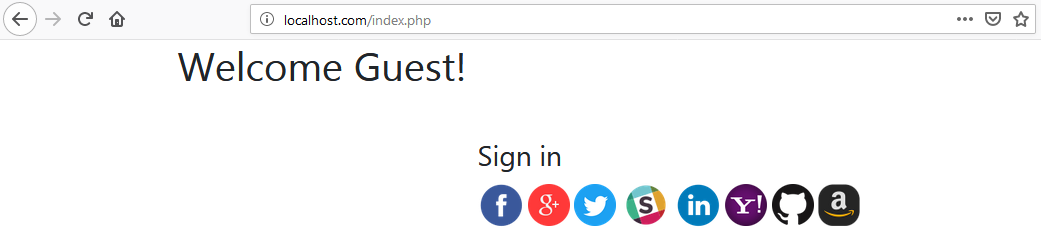
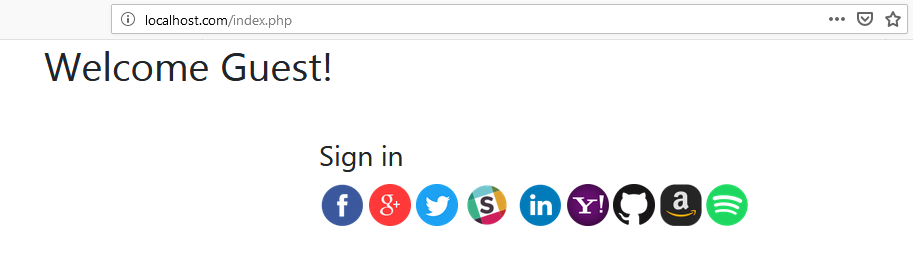
added Spotify support (#5)

diff --git a/src/ThirdParty/Spotify/SpotifyConnection.php b/src/ThirdParty/Spotify/SpotifyConnection.php
@@ -1,0 +1,142 @@
+<?php
+/**
+ * @author Tharanga Kothalawala <tharanga.kothalawala@tsk-webdevelopment.com>
+ * @date 25-02-2019
+ */
+
+namespace TSK\SSO\ThirdParty\Spotify;
+
+use TSK\SSO\Http\CurlRequest;
+use TSK\SSO\ThirdParty;
+use TSK\SSO\ThirdParty\CommonAccessToken;
+use TSK\SSO\ThirdParty\Exception\NoThirdPartyEmailFoundException;
+use TSK\SSO\ThirdParty\Exception\ThirdPartyConnectionFailedException;
+use TSK\SSO\ThirdParty\ThirdPartyUser;
+use TSK\SSO\ThirdParty\VendorConnection;
+
+/**
+ * @codeCoverageIgnore
+ * @package TSK\SSO\ThirdParty\Spotify
+ * @see https://developer.spotify.com/documentation/general/guides/authorization-guide/
+ */
+class SpotifyConnection implements VendorConnection
+{
+    const API_BASE = 'https://accounts.spotify.com';
+
+    /**
+     * @var SpotifyApiConfiguration
+     */
+    private $apiConfiguration;
+
+    /**
+     * @var CurlRequest
+     */
+    private $curlClient;
+
+    /**
+     * SpotifyConnection constructor.
+     * @param SpotifyApiConfiguration $apiConfiguration
+     * @param CurlRequest $curlClient
+     */
+    public function __construct(SpotifyApiConfiguration $apiConfiguration, CurlRequest $curlClient)
+    {
+        $this->apiConfiguration = $apiConfiguration;
+        $this->curlClient = $curlClient;
+    }
+
+    /**
+     * Use this to get a link to redirect a user to the third party login
+     *
+     * @return string|null
+     */
+    public function getGrantUrl()
+    {
+        return sprintf(
+            '%s/authorize?client_id=%s&scope=%s&response_type=code&redirect_uri=%s&state=%s',
+            self::API_BASE,
+            $this->apiConfiguration->clientId(),
+            urlencode('user-read-email'),
+            urlencode($this->apiConfiguration->redirectUrl()),
+            $this->apiConfiguration->ourSecretState()
+        );
+    }
+
+    /**
+     * Grants a new access token
+     *
+     * @return CommonAccessToken
+     * @throws ThirdPartyConnectionFailedException
+     */
+    public function grantNewAccessToken()
+    {
+        if (empty($_GET['code'])
+            || empty($_GET['state'])
+            || $_GET['state'] !== $this->apiConfiguration->ourSecretState()
+        ) {
+            throw new ThirdPartyConnectionFailedException('Invalid request!');
+        }
+
+        $accessTokenJsonResponse = $this->curlClient->postUrlEncoded(
+            sprintf("%s/api/token", self::API_BASE),
+            sprintf(
+                'client_id=%s&client_secret=%s&grant_type=authorization_code&redirect_uri=%s&code=%s',
+                $this->apiConfiguration->clientId(),
+                $this->apiConfiguration->clientSecret(),
+                urlencode($this->apiConfiguration->redirectUrl()),
+                $_GET['code']
+            )
+        );
+
+        $accessTokenData = json_decode($accessTokenJsonResponse, true);
+        if (empty($accessTokenData['access_token'])) {
+            throw new ThirdPartyConnectionFailedException('Failed to establish a new third party vendor connection.');
+        }
+
+        return new CommonAccessToken(
+            $accessTokenData['access_token'],
+            ThirdParty::SPOTIFY
+        );
+    }
+
+    /**
+     * Use this to retrieve the current user's third party user data using there existing granted access token
+     *
+     * @param CommonAccessToken $accessToken
+     * @return ThirdPartyUser
+     * @throws NoThirdPartyEmailFoundException
+     * @throws ThirdPartyConnectionFailedException
+     */
+    public function getSelf(CommonAccessToken $accessToken)
+    {
+        $userJsonInfo = $this->curlClient->get(
+            'https://api.spotify.com/v1/me',
+            array(
+                sprintf('Authorization: Bearer %s', $accessToken->token()),
+            )
+        );
+
+        $userInfo = json_decode($userJsonInfo, true);
+        if (empty($userInfo['email'])) {
+            throw new NoThirdPartyEmailFoundException('An email address cannot be found from vendor');
+        }
+
+        return new ThirdPartyUser(
+            $userInfo['id'],
+            $userInfo['display_name'],
+            $userInfo['email']
+        );
+    }
+
+    /**
+     * Use this to revoke the access to the third party data.
+     * This will completely remove the access from the vendor side.
+     *
+     * @param CommonAccessToken $accessToken
+     * @return bool
+     */
+    public function revokeAccess(CommonAccessToken $accessToken)
+    {
+        // noop : cannot find documentation on how to revoke the app's access.
+        return true;
+    }
+}

diff --git a/examples/index.php b/examples/index.php
@@ -71,6 +71,7 @@ if (!empty($_SESSION['userId'])) {
                         ThirdParty::YAHOO => array('profile' => 'https://yahoo.com/%s', 'accounts' => array()),
                         ThirdParty::GITHUB => array('profile' => 'https://github.com/%s', 'accounts' => array()),
                         ThirdParty::AMAZON => array('profile' => 'https://amazon.com/%s', 'accounts' => array()),
+                        ThirdParty::SPOTIFY => array('profile' => 'https://open.spotify.com/user/%s', 'accounts' => array()),
                     );
                     $vendorAccounts = $storageRepository->getByAppUser(
                         new ExistingAppUser($loggedInUser['id'], $loggedInUser['email'])
@@ -115,7 +116,7 @@ HTML
                 ?>
                 </ul>
             <?php }?>
-            <div style="width: 40%; margin: 50px auto 0;">
+            <div style="width: 45%; margin: 50px auto 0;">
                 <?php if (!empty($loggedInUser)) { ?>
                     <h3><a href="/sso.php?task=logout" title="Sign in with FaceBook">Logout</a></h3>
                 <?php } else { ?>
@@ -129,6 +130,7 @@ HTML
                     <a href="/sso.php?vendor=yahoo&task=signin" title="Sign in with Yahoo"><img src="/images/yahoo.png" width="42"></a>
                     <a href="/sso.php?vendor=github&task=signin" title="Sign in with GitHub"><img src="/images/github.png" width="42"></a>
                     <a href="/sso.php?vendor=amazon&task=signin" title="Sign in with Amazon"><img src="/images/amazon.png" width="42"></a>
+                    <a href="/sso.php?vendor=spotify&task=signin" title="Sign in with Spotify"><img src="/images/spotify.png" width="42"></a>
                 <?php }?>
             </div>
 

diff --git a/src/ThirdParty/Spotify/SpotifyApiConfiguration.php b/src/ThirdParty/Spotify/SpotifyApiConfiguration.php
@@ -1,0 +1,75 @@
+<?php
+/**
+ * @author Tharanga Kothalawala <tharanga.kothalawala@tsk-webdevelopment.com>
+ * @date 25-02-2019
+ */
+
+namespace TSK\SSO\ThirdParty\Spotify;
+
+/**
+ * @package TSK\SSO\ThirdParty\Spotify
+ */
+class SpotifyApiConfiguration
+{
+    /**
+     * @var string
+     */
+    private $clientId;
+
+    /**
+     * @var string
+     */
+    private $clientSecret;
+
+    /**
+     * @var string
+     */
+    private $redirectUrl;
+
+    /**
+     * SpotifyApiConfiguration constructor.
+     * @param string $clientId
+     * @param string $clientSecret
+     * @param string $redirectUrl
+     */
+    public function __construct($clientId, $clientSecret, $redirectUrl)
+    {
+        $this->clientId = $clientId;
+        $this->clientSecret = $clientSecret;
+        $this->redirectUrl = $redirectUrl;
+    }
+
+    /**
+     * @return string
+     */
+    public function clientId()
+    {
+        return $this->clientId;
+    }
+
+    /**
+     * @return string
+     */
+    public function clientSecret()
+    {
+        return $this->clientSecret;
+    }
+
+    /**
+     * @return string
+     */
+    public function redirectUrl()
+    {
+        return $this->redirectUrl;
+    }
+
+    /**
+     * This is just to identify that, we initiated the login sequence (not someone else)
+     *
+     * @return string
+     */
+    public function ourSecretState()
+    {
+        return 'dfeb6ef625880832f61c6f4bd737e11b';
+    }
+}

diff --git a/src/ThirdParty/Spotify/SpotifyConnectionFactory.php b/src/ThirdParty/Spotify/SpotifyConnectionFactory.php
@@ -1,0 +1,38 @@
+<?php
+/**
+ * @author Tharanga Kothalawala <tharanga.kothalawala@tsk-webdevelopment.com>
+ * @date 25-02-2019
+ */
+
+namespace TSK\SSO\ThirdParty\Spotify;
+
+use TSK\SSO\Http\CurlRequest;
+use TSK\SSO\ThirdParty\VendorConnection;
+use TSK\SSO\ThirdParty\VendorConnectionFactory;
+
+/**
+ * @package TSK\SSO\ThirdParty\Spotify
+ */
+class SpotifyConnectionFactory implements VendorConnectionFactory
+{
+    /**
+     * Returns a Spotify Connection instance using given credentials. Visit the following link for credentials.
+     * @see https://developer.spotify.com/dashboard/applications
+     *
+     * @param string $clientId the client id which can be generated at the third party portal
+     * @param string $clientSecret this can be found similar to the clientId
+     * @param string $callbackUrl the url to callback after a third party auth attempt
+     * @return VendorConnection
+     */
+    public function get($clientId, $clientSecret, $callbackUrl)
+    {
+        return new SpotifyConnection(
+            new SpotifyApiConfiguration(
+                $clientId,
+                $clientSecret,
+                $callbackUrl
+            ),
+            new CurlRequest()
+        );
+    }
+}

diff --git a/examples/sso.php b/examples/sso.php
@@ -25,6 +25,7 @@ use TSK\SSO\ThirdParty\Exception\UnknownVendorRequestException;
 use TSK\SSO\ThirdParty\GitHub\GitHubConnectionFactory;
 use TSK\SSO\ThirdParty\Google\GoogleConnectionFactory;
 use TSK\SSO\ThirdParty\Twitter\TwitterConnectionFactory;
+use TSK\SSO\ThirdParty\Spotify\SpotifyConnectionFactory;
 use TSK\SSO\ThirdParty\VendorConnectionRevoker;
 use TSK\SSO\ThirdParty\Yahoo\YahooConnectionFactory;
 
@@ -87,6 +88,15 @@ $connectionFactoryCollection->add(
         'amzn1.application-oa2-client.32d417021c994d9983136748ab40508f', // demo real-app api key
[1 lines of base64/hex data omitted]
         sprintf(CALLBACK_URL, ThirdParty::AMAZON)
+    )
+);
+$spotifyConnectionFactory = new SpotifyConnectionFactory();
+$connectionFactoryCollection->add(
+    ThirdParty::SPOTIFY,
+    $spotifyConnectionFactory->get(
+        '40de952ae63b403f894e47a6314bc64d', // demo real-app client id
+        '38eac415d0eb473bb0b4d1d732bc25d3', // demo real-app client secret
+        sprintf(CALLBACK_URL, ThirdParty::SPOTIFY)
     )
 );
 

diff --git a/tests/ThirdParty/Spotify/SpotifyApiConfigurationTest.php b/tests/ThirdParty/Spotify/SpotifyApiConfigurationTest.php
@@ -1,0 +1,35 @@
+<?php
+/**
+ * @author Tharanga Kothalawala <tharanga.kothalawala@tsk-webdevelopment.com>
+ * @date 25-02-2019
+ */
+
+namespace TSK\SSO\ThirdParty\Spotify;
+
+use PHPUnit\Framework\TestCase;
+
+class SpotifyApiConfigurationTest extends TestCase
+{
+    /**
+     * @test
+     */
+    public function shouldReturnWithInstantiatedValues()
+    {
+        $apiConfig = array(
+            'clientId' => 'client-id',
+            'clientSecret' => 'client-secret',
+            'redirectUrl' => 'http://www.tsk-webdevelopment.com',
+        );
+
+        $sut = new SpotifyApiConfiguration(
+            $apiConfig['clientId'],
+            $apiConfig['clientSecret'],
+            $apiConfig['redirectUrl']
+        );
+
+        $this->assertSame($apiConfig['clientId'], $sut->clientId());
+        $this->assertSame($apiConfig['clientSecret'], $sut->clientSecret());
+        $this->assertSame($apiConfig['redirectUrl'], $sut->redirectUrl());
+        $this->assertSame('dfeb6ef625880832f61c6f4bd737e11b', $sut->ourSecretState());
+    }
+}

diff --git a/tests/ThirdParty/Spotify/SpotifyConnectionFactoryTest.php b/tests/ThirdParty/Spotify/SpotifyConnectionFactoryTest.php
@@ -1,0 +1,24 @@
+<?php
+/**
+ * @author Tharanga Kothalawala <tharanga.kothalawala@tsk-webdevelopment.com>
+ * @date 25-02-2019
+ */
+
+namespace TSK\SSO\ThirdParty\Spotify;
+
+use PHPUnit\Framework\TestCase;
+
+class SpotifyConnectionFactoryTest extends TestCase
+{
+    /**
+     * @test
+     */
+    public function shouldReturnAnInstanceOfASpotifyConnection()
+    {
+        $sut = new SpotifyConnectionFactory();
+
+        $actualConnection = $sut->get('clientId', 'clientSecret', 'www.tsk-webdevelopment.com');
+
+        $this->assertInstanceOf('\TSK\SSO\ThirdParty\Spotify\SpotifyConnection', $actualConnection);
+    }
+}

diff --git a/src/ThirdParty.php b/src/ThirdParty.php
@@ -19,6 +19,7 @@ class ThirdParty
     const FACEBOOK = 'facebook';
     const LINKEDIN = 'linkedin';
     const SLACK = 'slack';
+    const SPOTIFY = 'spotify';
     const TWITTER = 'twitter';
     const YAHOO = 'yahoo';
 }

diff --git a/README.md b/README.md
@@ -16,6 +16,7 @@ This is a library which can provision new accounts and can authenticate users ut
 * Google
 * LinkedIn
 * Slack
+* Spotify
 * Twitter
 * Yahoo
 
@@ -206,6 +207,7 @@ Optionally you may register your own apps if you want to test.
 * GitHub : https://github.com/settings/developers
 * Google : https://console.developers.google.com
 * Twitter : https://developer.twitter.com/en/apps - You must at least have 'Read-only' access permission and have ticked 'Request email address from users' under additional permissions.
+* Spotify : https://developer.spotify.com/dashboard/applications
 * Yahoo : https://developer.yahoo.com/apps - You must at least select 'Read/Write Public and Private' of 'Profiles (Social Directory)' API permissions.
 
 #### Host File Entry

diff --git a/examples/README.md b/examples/README.md
@@ -9,6 +9,7 @@ Optionally you may register your own apps if you want to test.
 * GitHub : https://github.com/settings/developers
 * Google : https://console.developers.google.com
 * Twitter : https://developer.twitter.com/en/apps - You must at least have 'Read-only' access permission and have ticked 'Request email address from users' under additional permissions.
+* Spotify : https://developer.spotify.com/dashboard/applications
 * Yahoo : https://developer.yahoo.com/apps - You must at least select 'Read/Write Public and Private' of 'Profiles (Social Directory)' API permissions.
 
 #### Host File Entry
